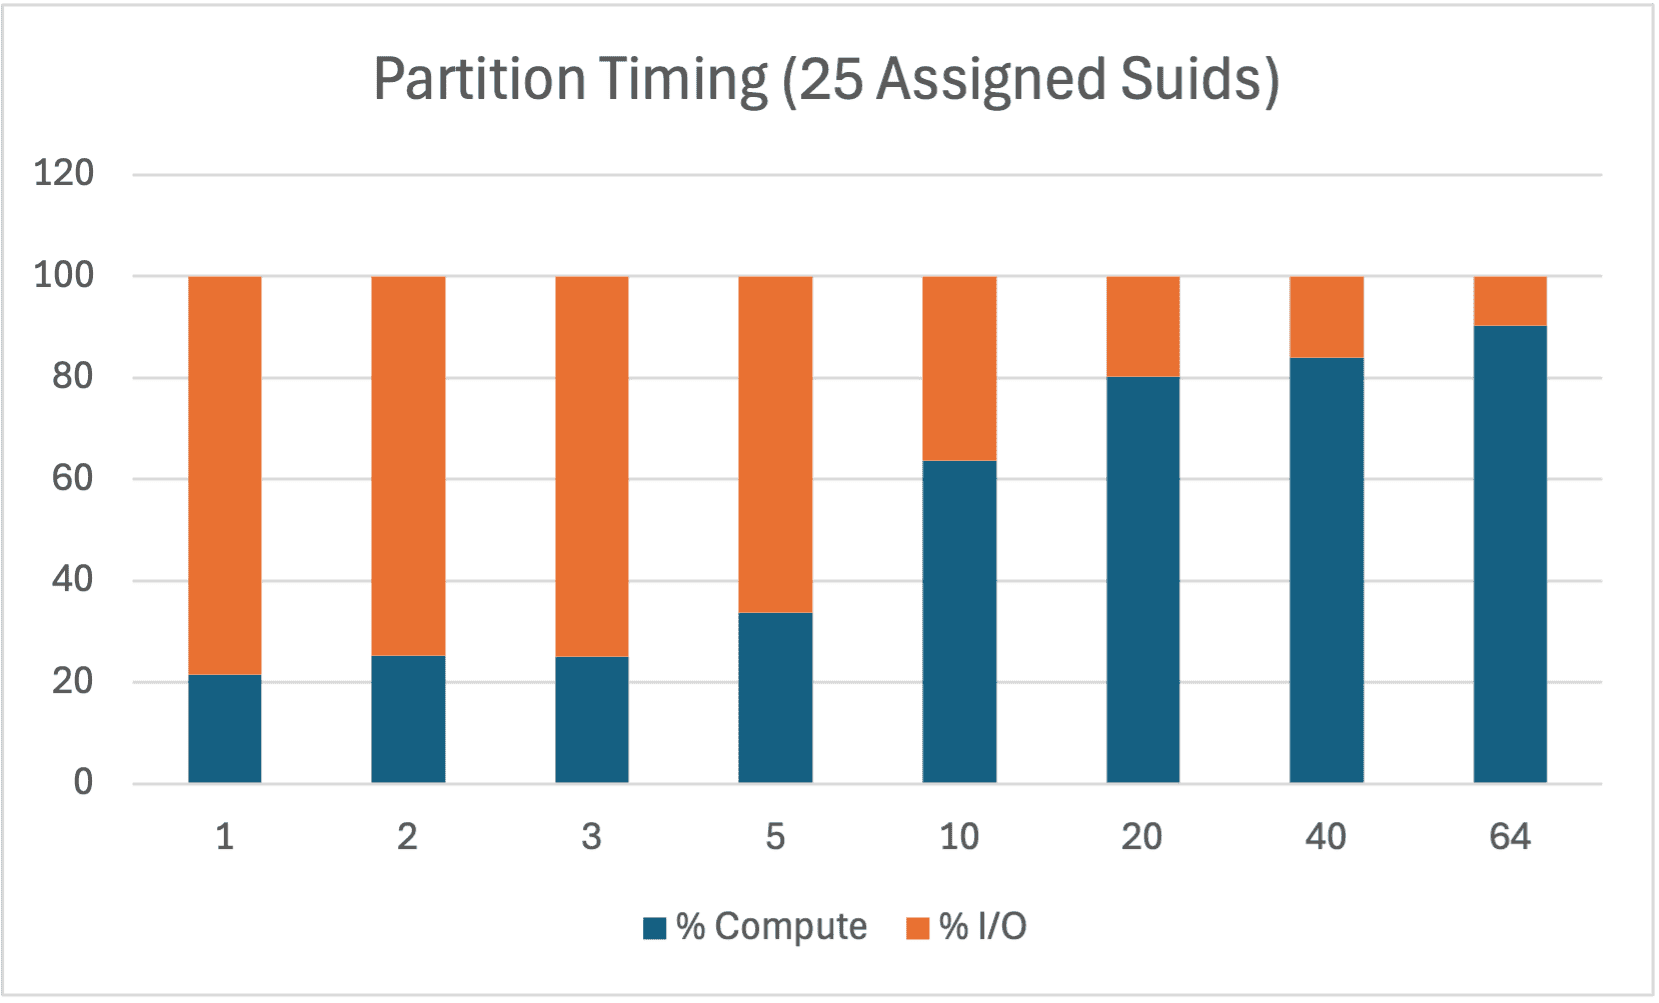
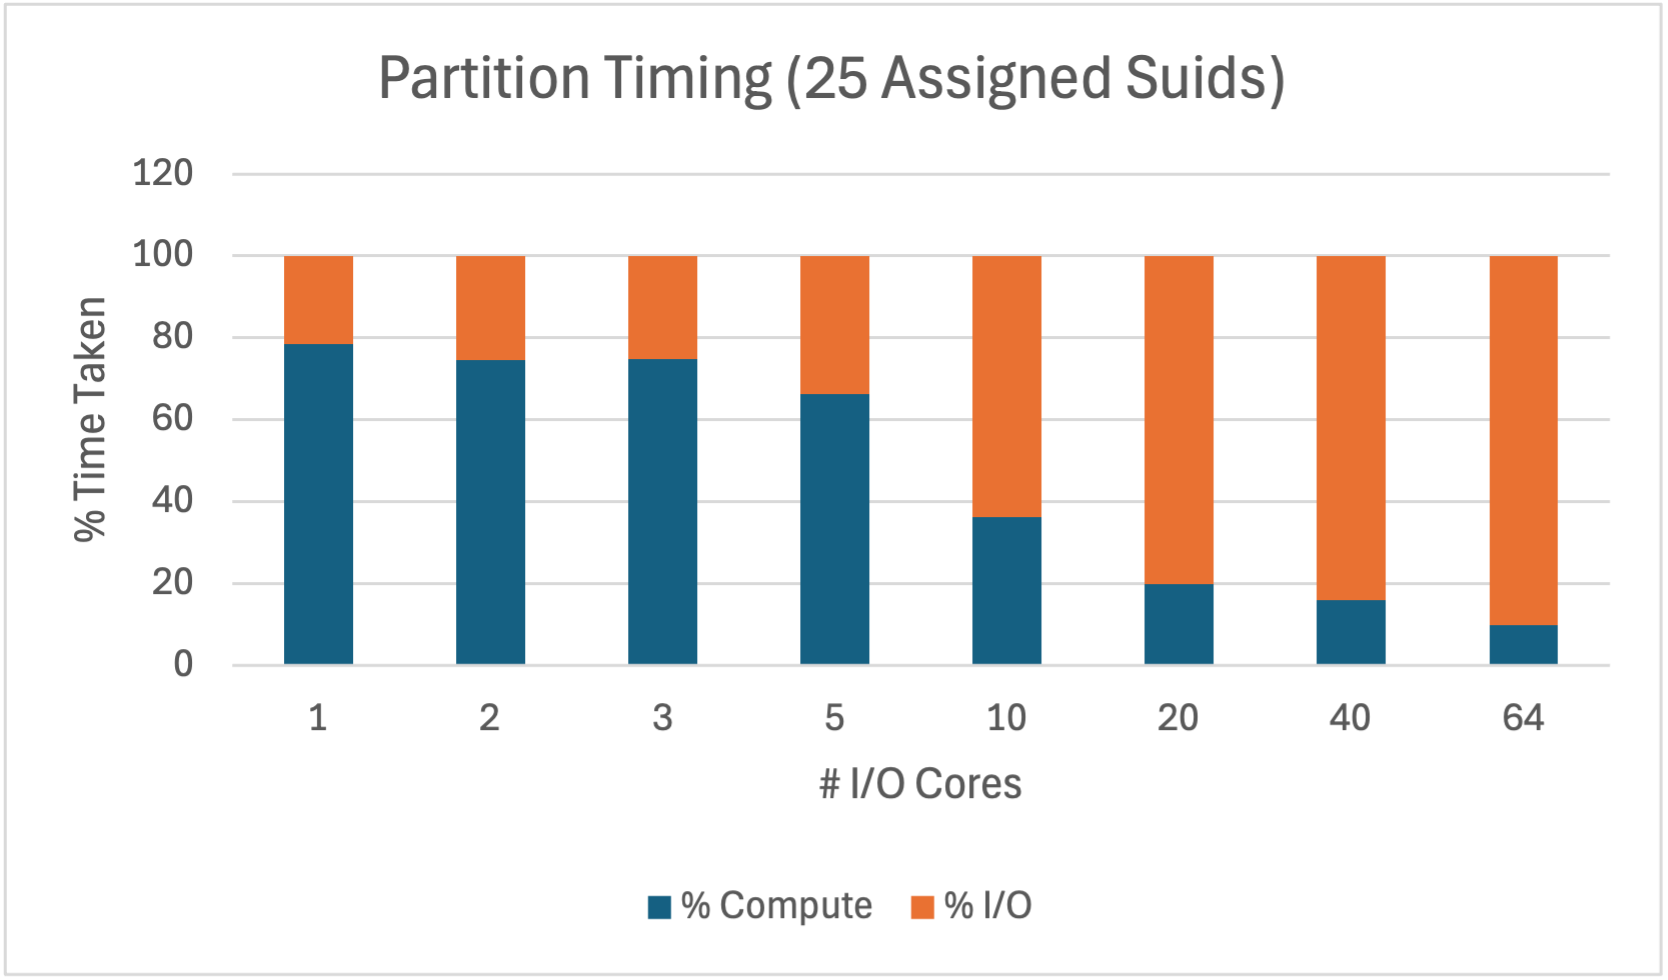
Update parallel documentation compute/IO figures
- It was found that a column of data was swapped with each other when running performance tests
- This only pertains to the figures that mention the timing partitions of compute and IO operations

- Update figures and descriptions of said figures to reverse the evaluations
- Update rough number of simulated sites to 112k from 111k

diff --git a/doc/additional_pages/SOILWAT2_Parallelization.md b/doc/additional_pages/SOILWAT2_Parallelization.md
@@ -175,8 +175,8 @@ There are two type of performance test conducted - with and without weather inpu
     - Number of I/O processes: 1, 2, and 3
         - If a number of I/O is too large for the total number of cores to split the core distribution at most 50/50, then the I/O size is not tested for the domain size
 
-- The second batch consisted of non-weather-inclusive performance runs that took place used a domain size of ~111k sites (excluding sites which error), a size no configuration will be able to engulf in one iteration of input-simulation-output. This batch uses the configuration combinations of
-    - Domain size: ~111,000
+- The second batch consisted of non-weather-inclusive performance runs that took place used a domain size of ~112k sites (excluding sites which error), a size no configuration will be able to engulf in one iteration of input-simulation-output. This batch uses the configuration combinations of
+    - Domain size: ~112,000
     - Number of cores: 128
     - Number of suids per compute process: 25, 40, 50, 60, 75, 90, and 100
     - Number of I/O processes: 1, 2, 3, 5, 10, 20, 40, and 64
@@ -190,8 +190,8 @@ There are two type of performance test conducted - with and without weather inpu
         - With suid consideration - Take the numbers of speedup at face value and calculate the efficiency as is (depending on the setup, can easily be above 1)
     - Sequential/parallel compute/I/O time partition % (second/third batch only) - gives the idea of how much overall time is spent doing compute and I/O operations. This can help to get a sense of the correct balance of compute and I/O creation
 
-- The third batch consisted of weather-inclusive (30 years) performance runs that also took place used a domain size of ~111k sites (excluding sites which error). This batch uses the configuration combinations of
-    - Domain size: ~111,000
+- The third batch consisted of weather-inclusive (30 years) performance runs that also took place used a domain size of ~112k sites (excluding sites which error). This batch uses the configuration combinations of
+    - Domain size: ~112,000
     - Number of cores: 128
     - Number of suids per compute process: 10, 20, 40, 50, 60, 70*, 80*
         - \* = only used during 40 & 64 I/O processes
@@ -228,13 +228,13 @@ No Weather (Figure 8) | Weather (Figure 9)
 :----------|-----------:
 ![Figure 8](Partition_Timing-25_Assigned_Suids-no-weather.png) | ![Figure 9](Partition_Timing-10_Assigned_Suids-weather.png)
 
-Partitioned timing into compute and I/O process with 25 (without weather) assigned suids and 10 (with weather) per compute process. (Without weather, left) We see an expected increase in the compute times and decrease in I/O times as the number of I/O processes increase. (With weather, right) With 20 I/O processes, the program is already saturated with computation operations and even more so with 64 I/O processes.
+Partitioned timing into compute and I/O process with 25 (without weather) assigned suids and 10 (with weather) per compute process. (Without weather, left) We see an unexpected increase in the I/O times and decrease in compute times as the number of I/O processes increase. (With weather, right) With 20 I/O processes, the program is already saturated with I/O operations and even more so with 64 I/O processes.
 
 No Weather (Figure 10) | Weather (Figure 11)
 :----------|-----------:
 ![Figure 10](Partition_Timing-100_Assigned_Suids-no-weather.png) | ![Figure 11](Partition_Timing-60_Assigned_Suids-weather.png)
 
-Partitioned timing into compute and I/O process with 100 (without weather) and 60 (with weather) assigned suids per compute process. (Without weather, left) The graph mostly shows the expected increase in the compute times and decrease in I/O times as the number of I/O processes increase. The exception is with 64 I/O processes, a small increase in I/O timing compared to 40 I/O processes. (With weather, right) 20 I/O is more saturated with I/O operations and relative to **Figure 9** is less saturated with compute operations at 64 I/O processes.
+Partitioned timing into compute and I/O process with 100 (without weather) and 60 (with weather) assigned suids per compute process. (Without weather, left) The graph mostly shows an unexpected increase in the I/O times and decrease in compute times as the number of I/O processes increase. The exception is with 64 I/O processes, a small increase in compute timing compared to 40 I/O processes. (With weather, right) 20 I/O is more saturated with compute operations and relative to **Figure 9** is less saturated with compute operations at 64 I/O processes.
 
 ![Figure 12](Speedup_Relative_to_Assigned_Suids-weather_40years.png)
 
